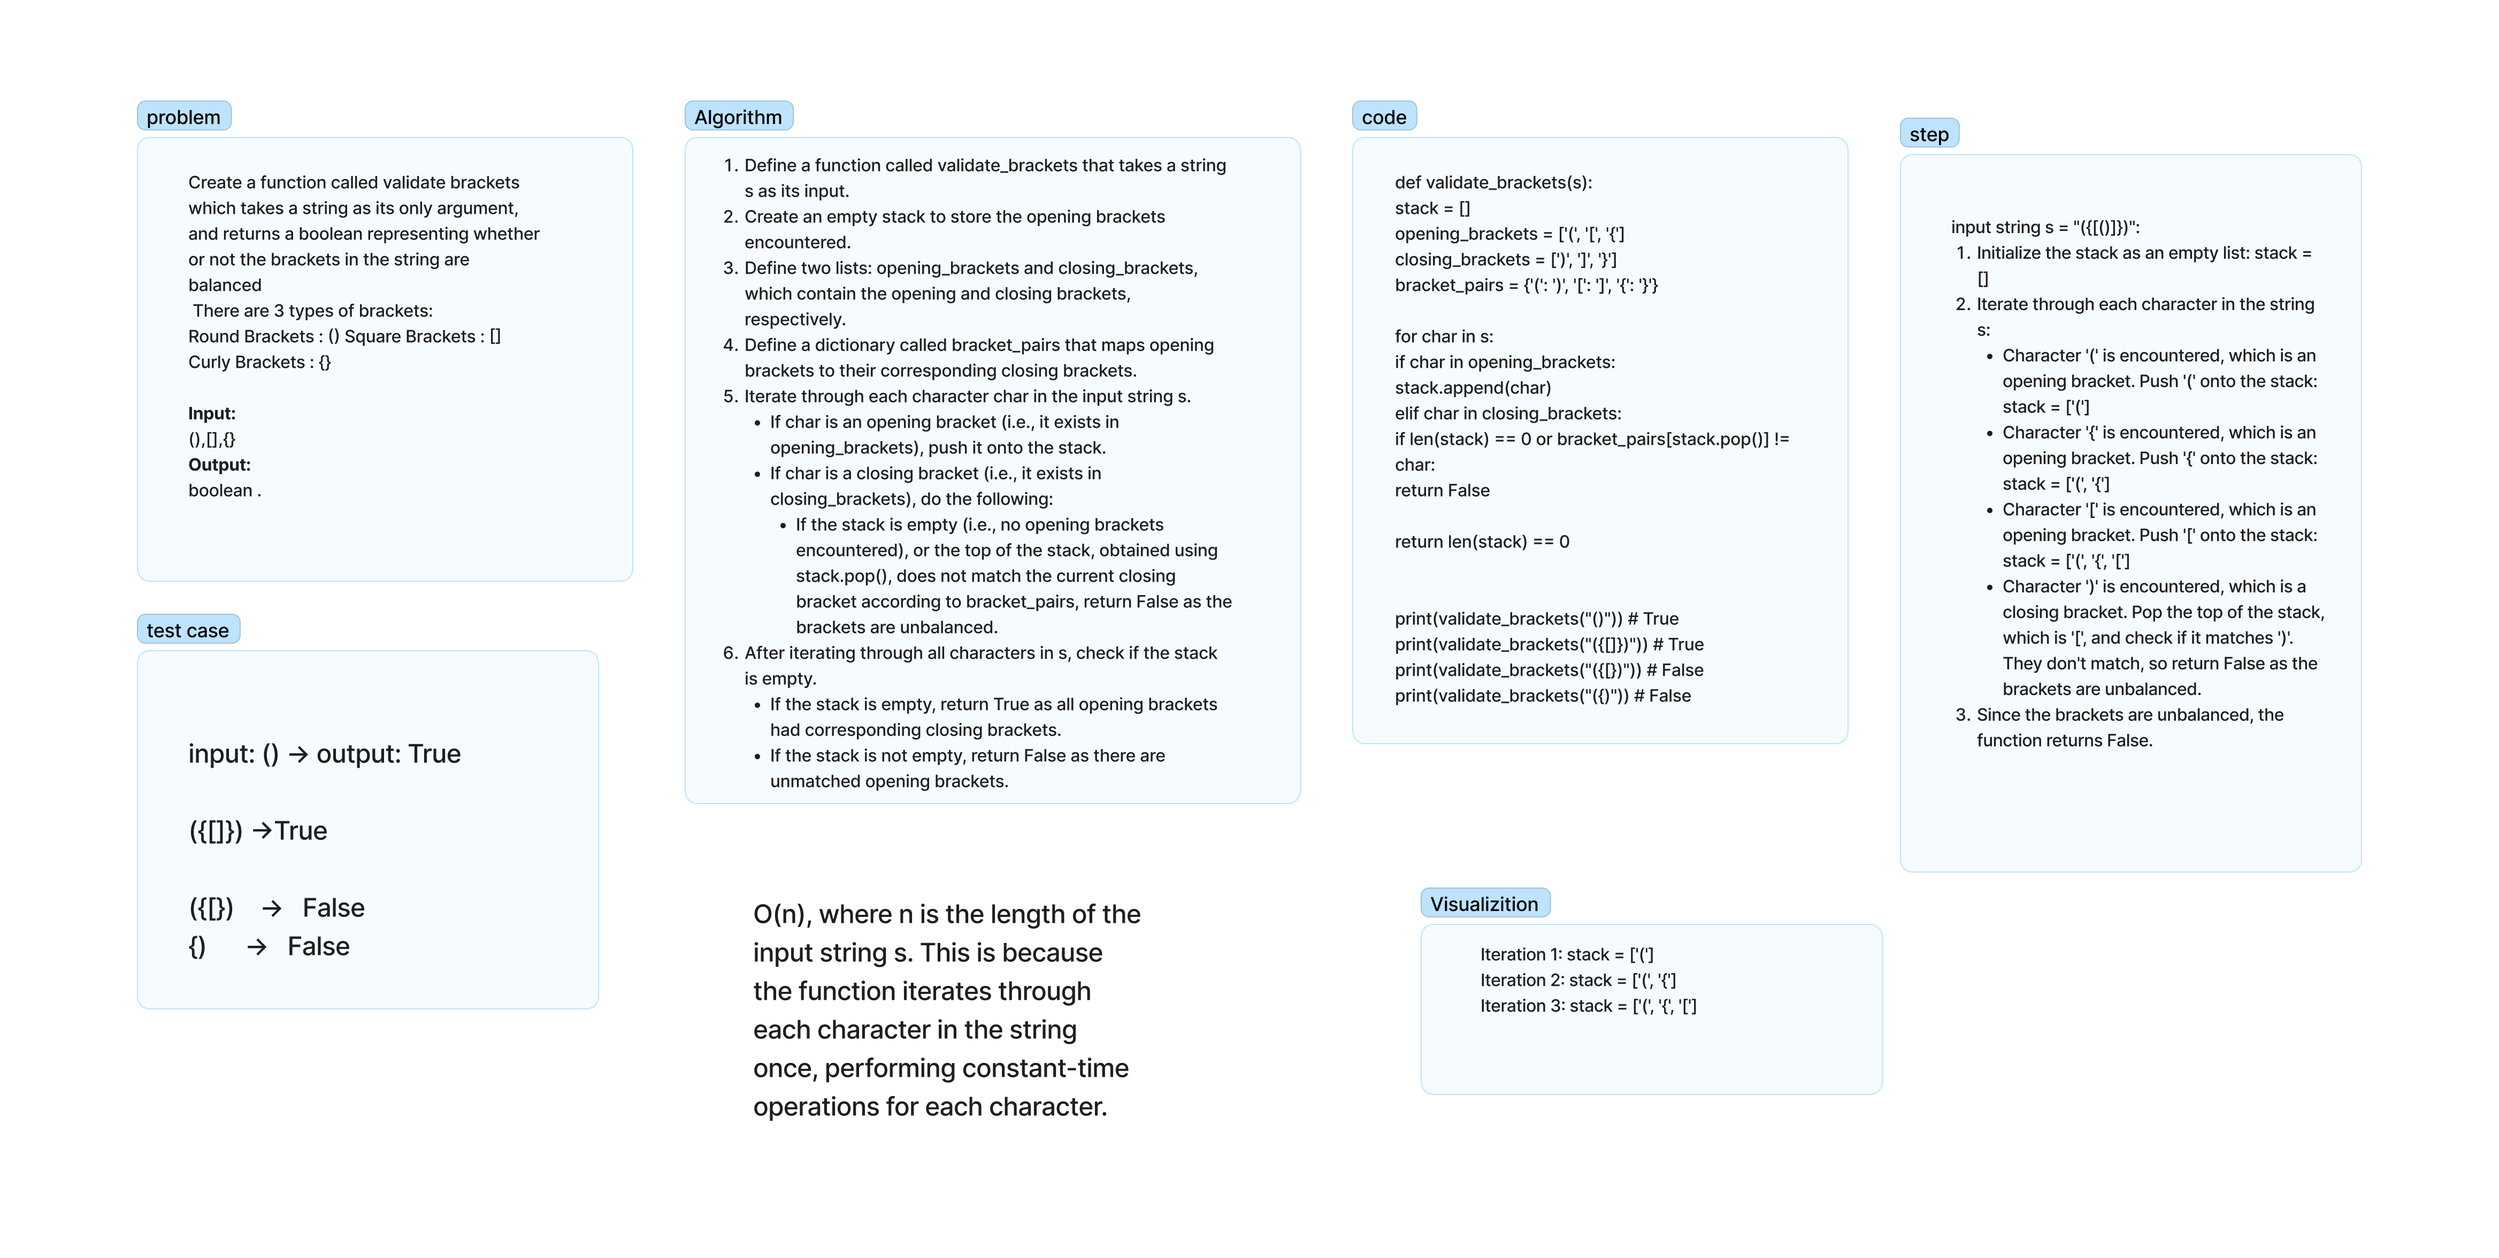
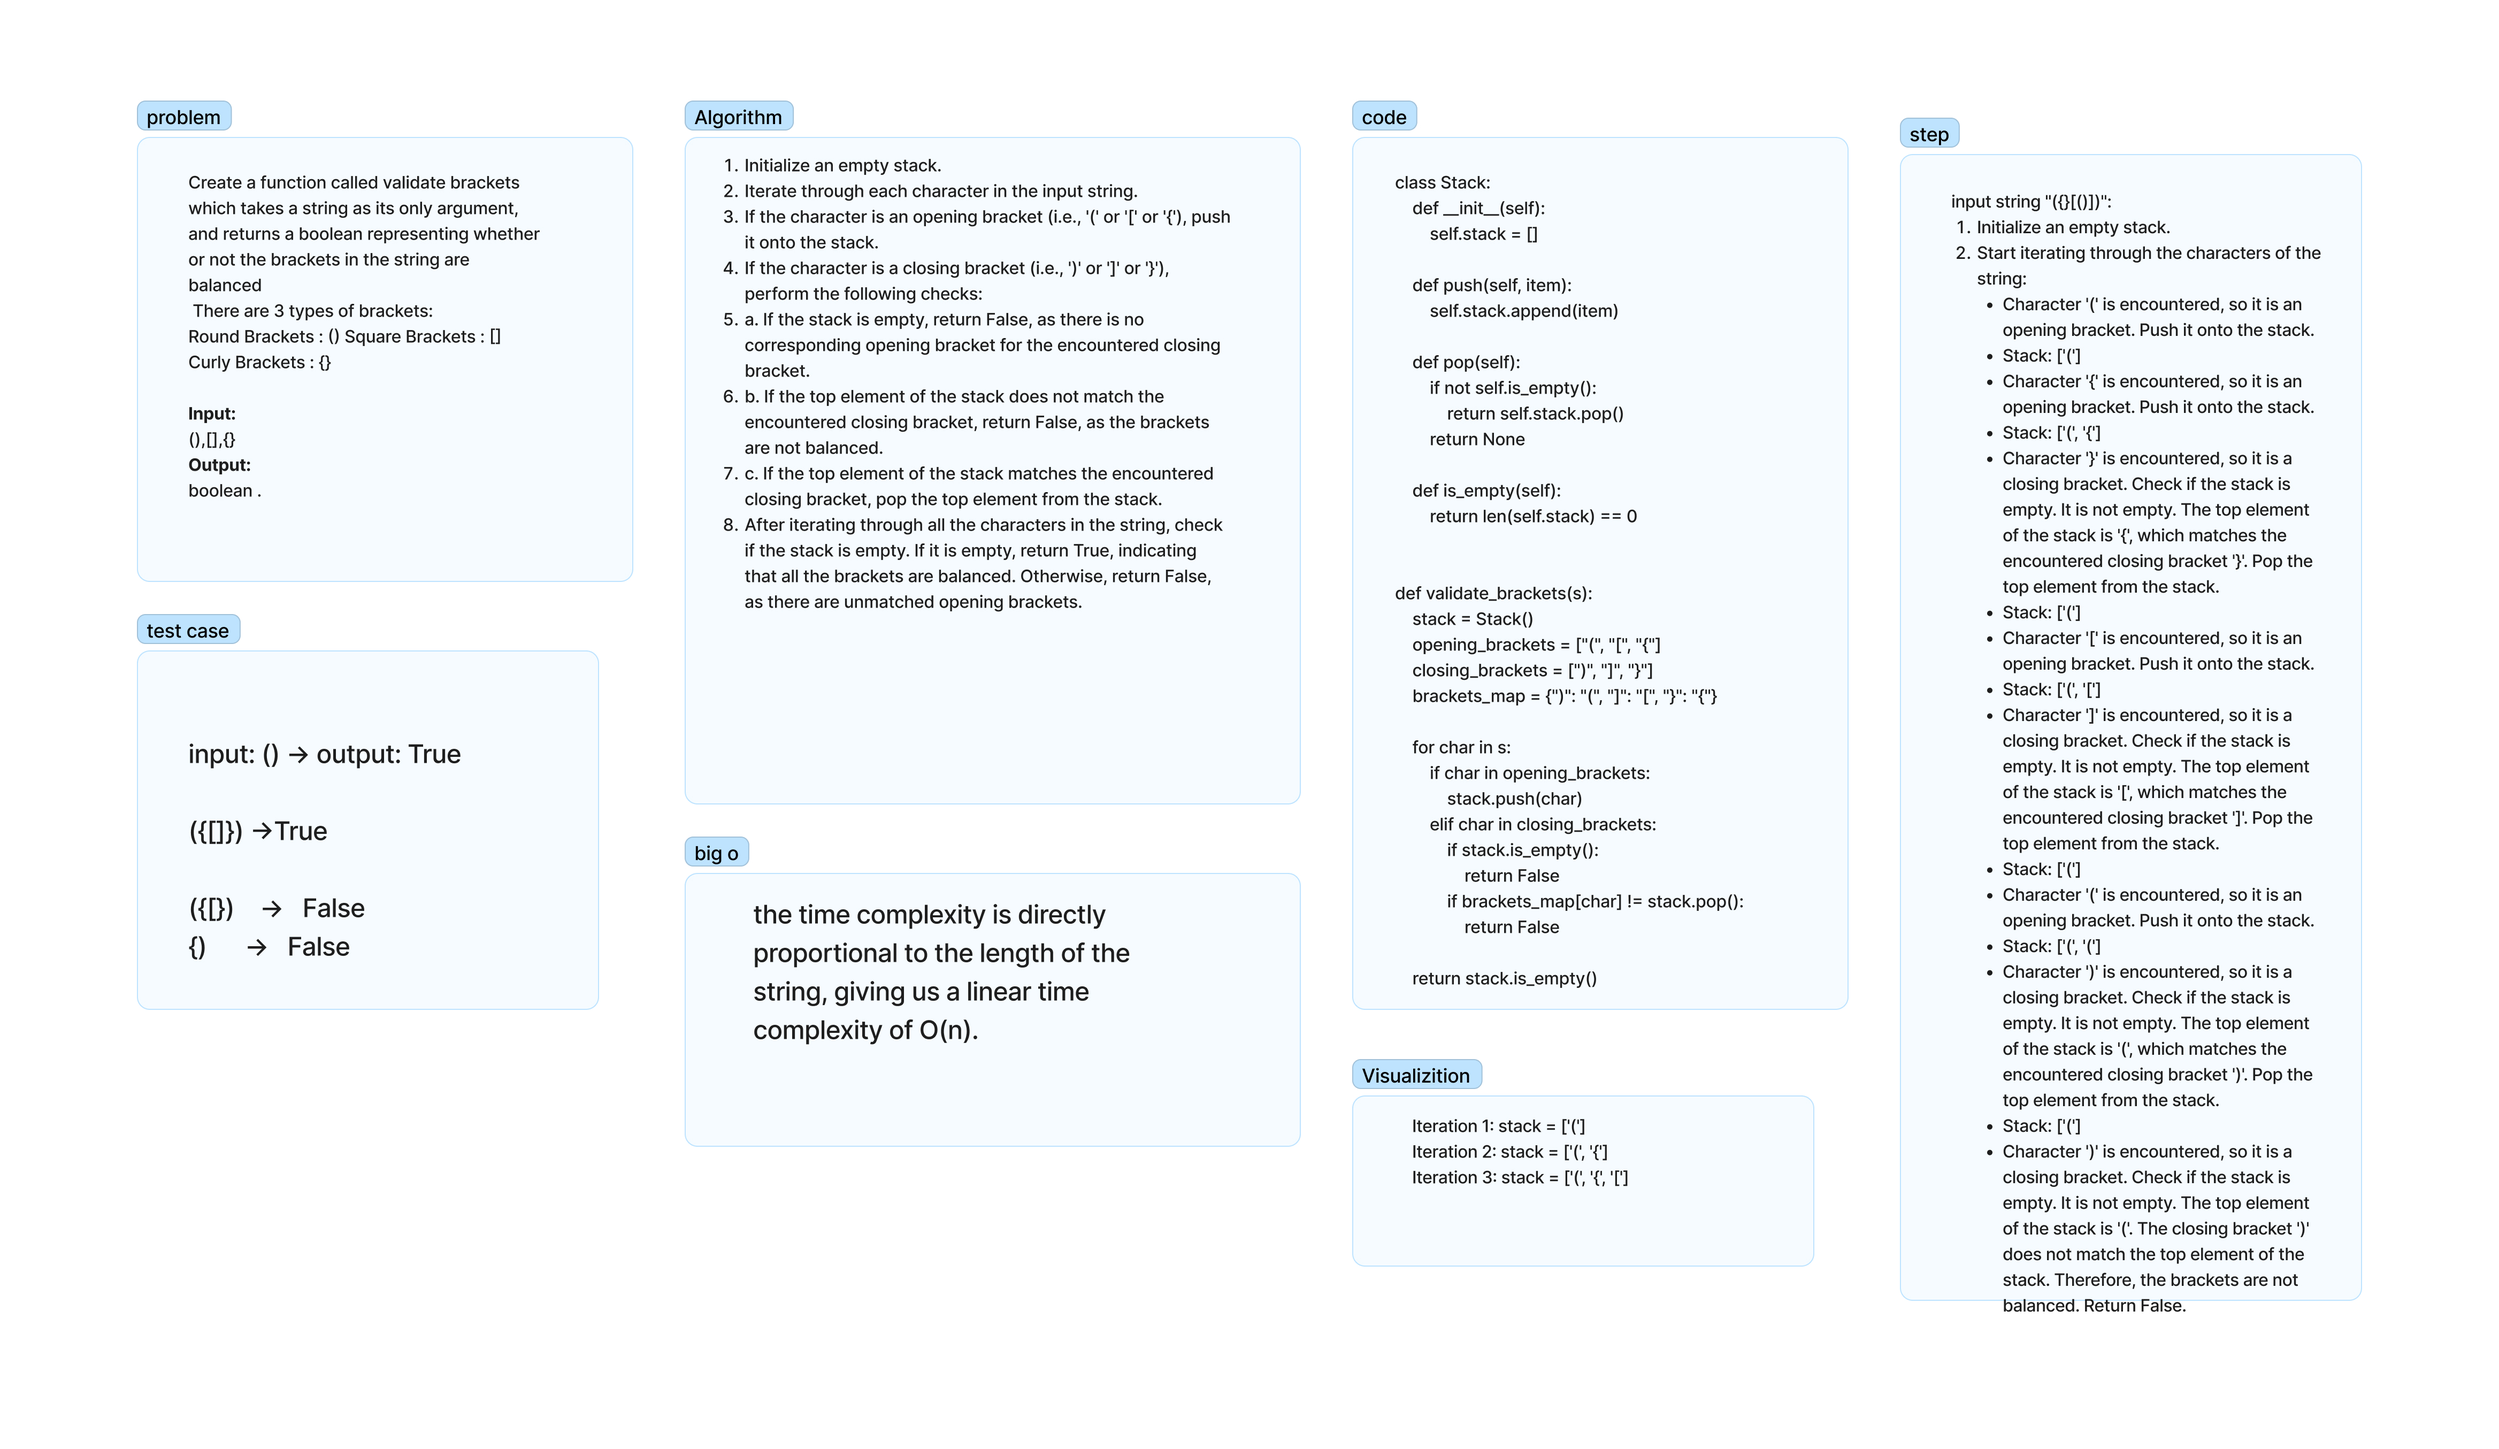
fg

diff --git a/stack_queue_brackets/stack_queue_Brackets.py b/stack_queue_brackets/stack_queue_Brackets.py
@@ -1,20 +1,62 @@
+class Stack:
+    def __init__(self):
+        """
+        Initialize an empty stack.
+        """
+        self.stack = []
+
+    def push(self, item):
+        """
+        Push an item onto the top of the stack.
+
+        Args:
+            item: The item to be pushed onto the stack.
+        """
+        self.stack.append(item)
+
+    def pop(self):
+        """
+        Remove and return the item at the top of the stack.
+
+        Returns:
+            The item at the top of the stack, or None if the stack is empty.
+        """
+        if not self.is_empty():
+            return self.stack.pop()
+        return None
+
+    def is_empty(self):
+        """
+        Check if the stack is empty.
+
+        Returns:
+            True if the stack is empty, False otherwise.
+        """
+        return len(self.stack) == 0
+
+
 def validate_brackets(s):
-    stack = []
-    opening_brackets = ['(', '[', '{']
-    closing_brackets = [')', ']', '}']
-    bracket_pairs = {'(': ')', '[': ']', '{': '}'}
+    """
+    Check if the brackets in a string are balanced.
+
+    Args:
+        s (str): The input string containing brackets.
+
+    Returns:
+        bool: True if the brackets are balanced, False otherwise.
+    """
+    stack = Stack()
+    opening_brackets = ["(", "[", "{"]
+    closing_brackets = [")", "]", "}"]
+    brackets_map = {")": "(", "]": "[", "}": "{"}
 
     for char in s:
         if char in opening_brackets:
-            stack.append(char)
+            stack.push(char)
         elif char in closing_brackets:
-            if len(stack) == 0 or bracket_pairs[stack.pop()] != char:
+            if stack.is_empty():
+                return False
+            if brackets_map[char] != stack.pop():
                 return False
 
-    return len(stack) == 0
-
-
-print(validate_brackets("()"))  # True
-print(validate_brackets("({[]})"))  # True
-print(validate_brackets("({[})"))  # False
-print(validate_brackets("({)"))  # False
+    return stack.is_empty()
